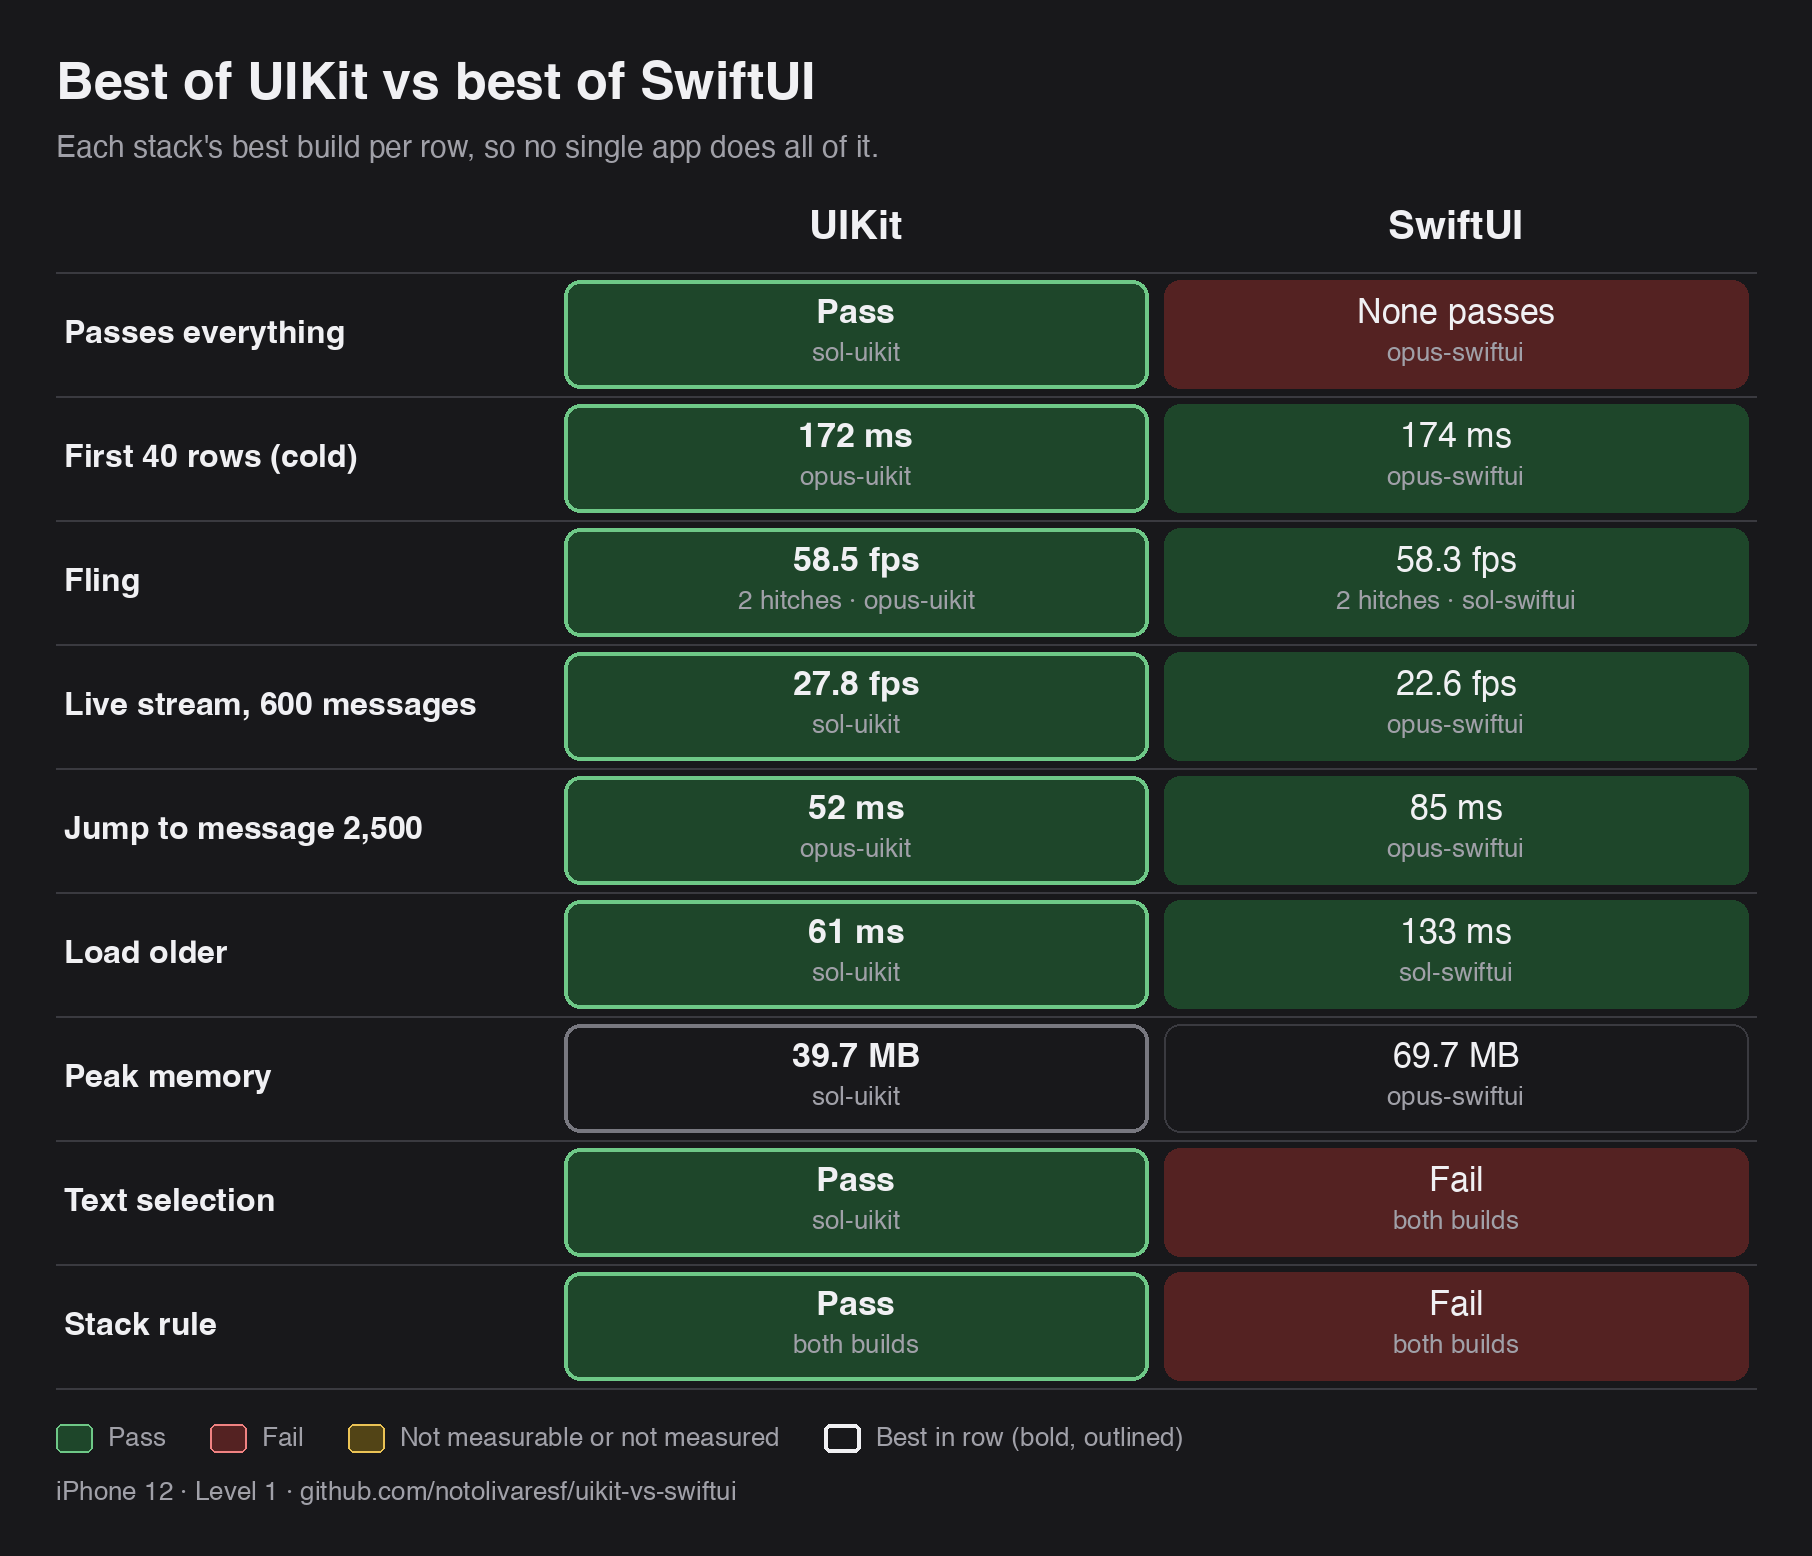
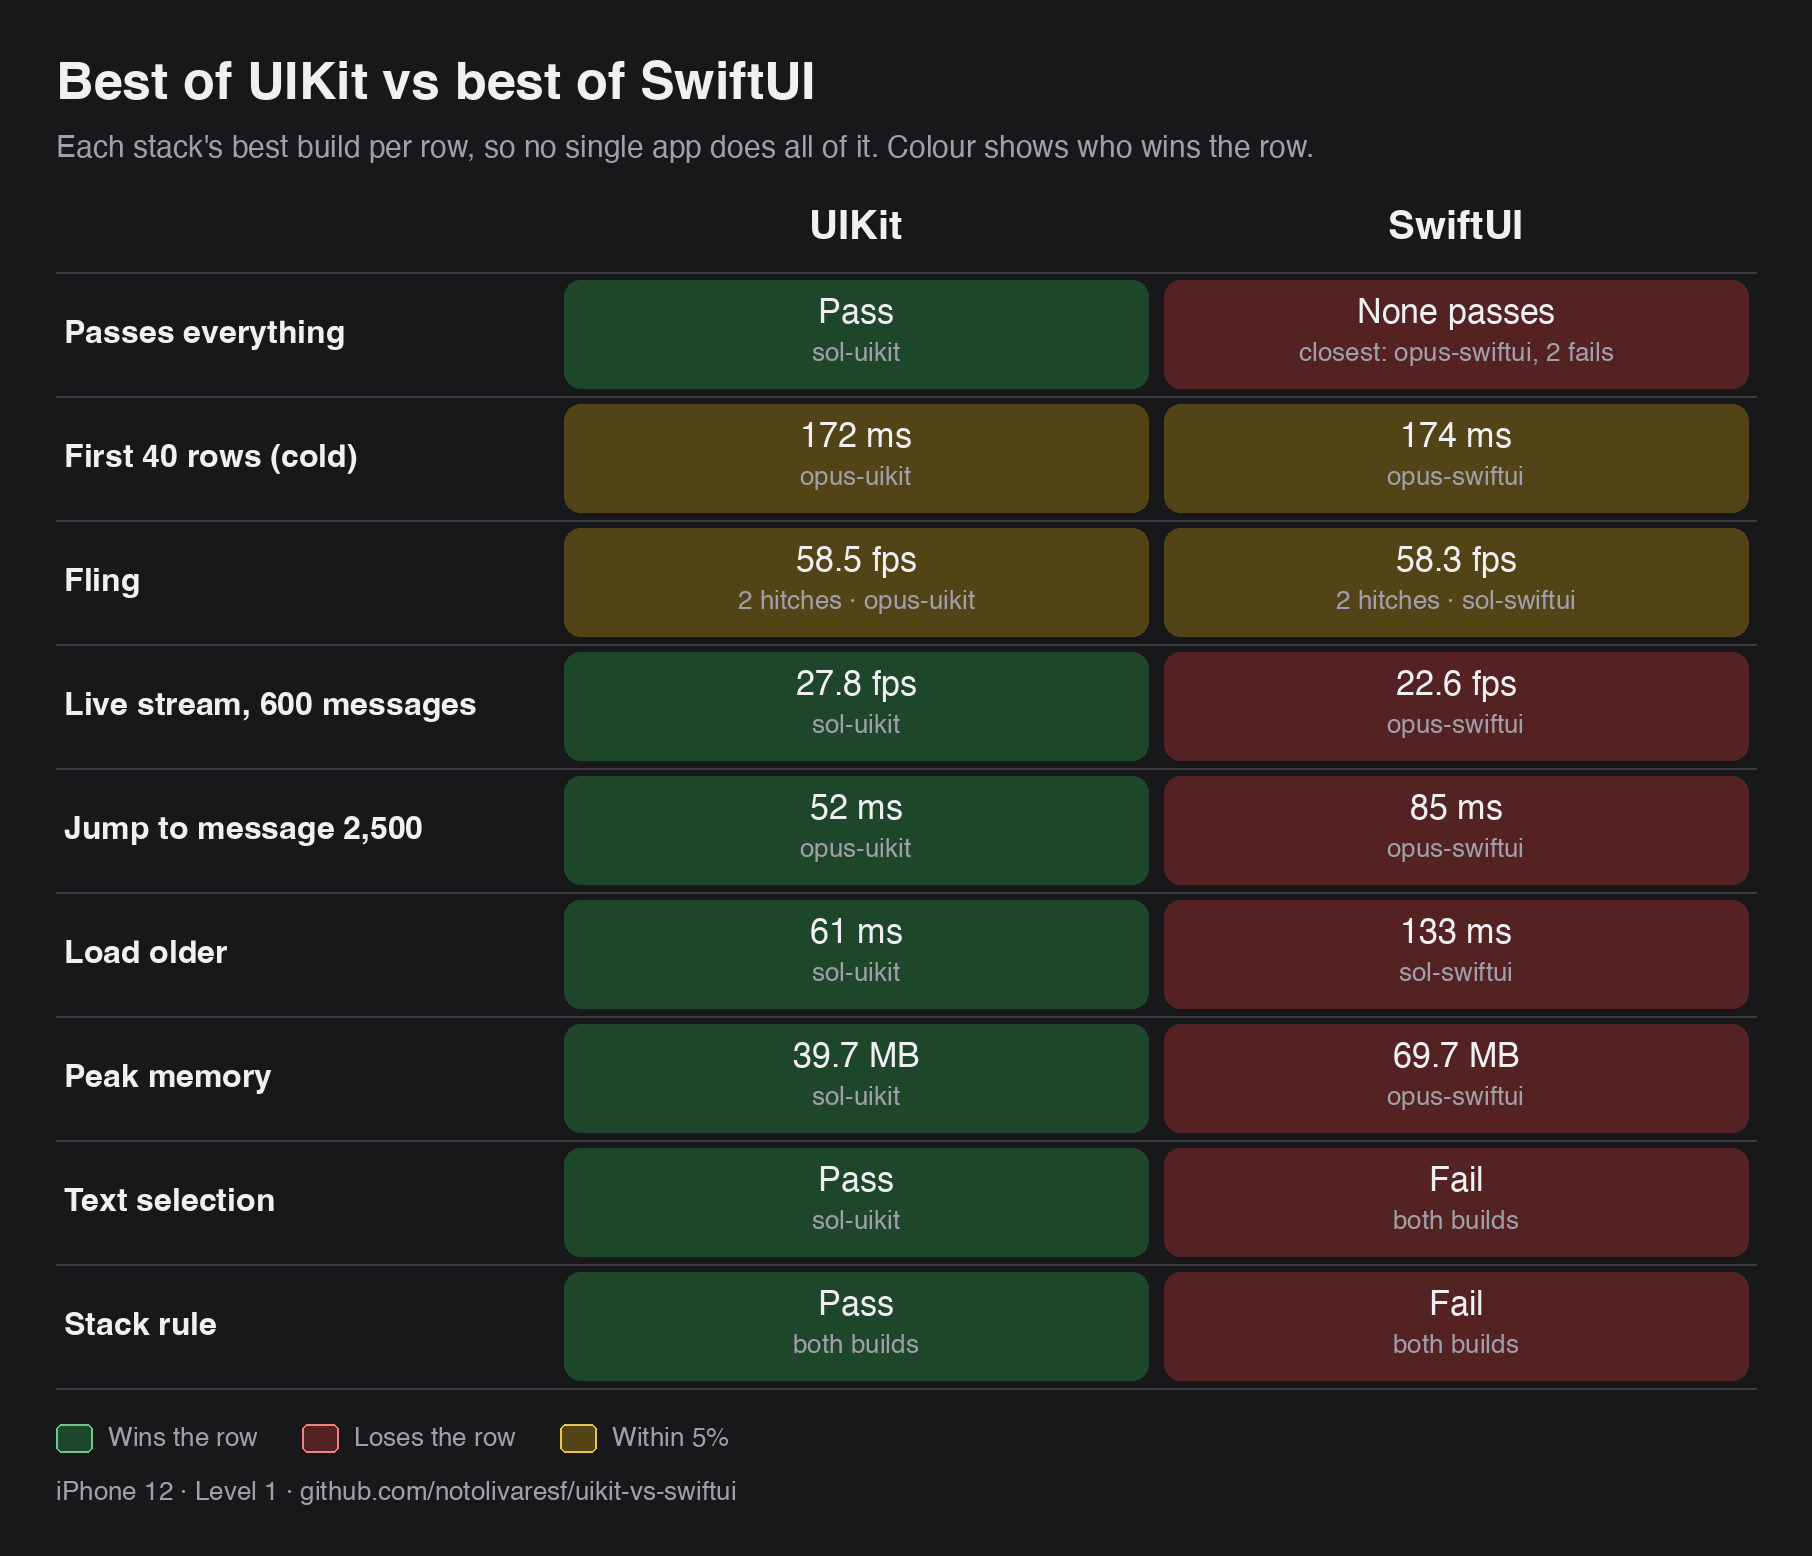
README: best-of table coloured by who wins the row, no outlines

diff --git a/Harness/tools/results_table.py b/Harness/tools/results_table.py
@@ -46,7 +46,8 @@ THEMES = {
 
 FULL = dict(title="UIKit vs SwiftUI", subtitle="Same Campfire chat room, built four times. Level 1 results.",
             builds=BUILDS, rows=ROWS, col_w=220, file="results",
-            groups=[("Opus 5.5", (0, 1)), ("GPT-6.1 Sol", (2, 3))])
+            groups=[("Opus 5.5", (0, 1)), ("GPT-6.1 Sol", (2, 3))],
+            legend=[("ok", "Pass"), ("bad", "Fail"), ("warn", "Not measurable or not measured")], best_legend=True)
 
 # --- Best of each stack, computed from ROWS (nothing retyped) ---
 import re
@@ -87,25 +88,38 @@ def best_rows():
             picks.append((i, sc))
         (iu, su), (iw, sw) = picks
         tie = su == sw
+        passfail = label in ("Passes everything", "Text selection", "Stack rule")
+        if su is None or sw is None:
+            near = False
+        else:
+            near = su == sw or (not passfail and abs(su - sw) / max(abs(su), abs(sw)) <= 0.05)
         out_cells = []
         for k, (i, sc) in enumerate(picks):
             state, main, sub, _ = cells[i]
             idxs = list(STACKS.values())[k]
             same = all(cells[j][1] == main and cells[j][0] == state for j in idxs)
-            if label == "Passes everything" and state != "ok":
-                main = "None passes"
             extra = sub if label == "Fling" else ""
             who = "both builds" if same and label in ("Text selection", "Stack rule") else NAMES[i]
-            out_cells.append((state, main, (extra + " \u00b7 " if extra else "") + who,
-                              not tie and sc is not None and (su is None or sw is None or sc == min(su, sw))
-                              if (su is not None and sw is not None) or sc is not None else False))
+            if label == "Passes everything" and state != "ok":
+                main, who = "None passes", "closest: %s, %s" % (NAMES[i], re.match(r"\d+ fails?", cells[i][1]).group())
+            other = picks[1 - k][1]
+            if near:
+                rank = "warn"
+            elif sc is None:
+                rank = "bad"
+            elif other is None or sc < other:
+                rank = "ok"
+            else:
+                rank = "bad"
+            out_cells.append((rank, main, (extra + " \u00b7 " if extra else "") + who, False))
         out.append((label, out_cells))
     return out
 
 
 BEST = dict(title="Best of UIKit vs best of SwiftUI",
-            subtitle="Each stack's best build per row, so no single app does all of it.",
-            builds=[("UIKit", ""), ("SwiftUI", "")], rows=best_rows(), col_w=300, file="results-best", groups=None)
+            subtitle="Each stack's best build per row, so no single app does all of it. Colour shows who wins the row.",
+            builds=[("UIKit", ""), ("SwiftUI", "")], rows=best_rows(), col_w=300, file="results-best", groups=None,
+            legend=[("ok", "Wins the row"), ("bad", "Loses the row"), ("warn", "Within 5%")])
 
 S = 2  # scale
 LABEL_W, COL_W, ROW_H, HEAD_H, GROUP_H = 250, 220, 62, 44, 36
@@ -191,13 +205,14 @@ def render(name, spec=None):
     # legend
     y += 18
     lx = x0
-    for state, txt in (("ok", "Pass"), ("bad", "Fail"), ("warn", "Not measurable or not measured")):
+    for state, txt in spec["legend"]:
         bgc, fg = th[state]
         d.rounded_rectangle([lx * S, y * S, (lx + 18) * S, (y + 14) * S], 3 * S, fill=bgc, outline=fg, width=S)
         d.text(((lx + 26) * S, (y + 7) * S), txt, font=font(13), fill=th["muted"], anchor="lm")
         lx += 26 + d.textlength(txt, font=font(13)) / S + 22
-    d.rounded_rectangle([lx * S, y * S, (lx + 18) * S, (y + 14) * S], 3 * S, outline=th["text"], width=2 * S)
-    d.text(((lx + 26) * S, (y + 7) * S), "Best in row (bold, outlined)", font=font(13), fill=th["muted"], anchor="lm")
+    if spec.get("best_legend"):
+        d.rounded_rectangle([lx * S, y * S, (lx + 18) * S, (y + 14) * S], 3 * S, outline=th["text"], width=2 * S)
+        d.text(((lx + 26) * S, (y + 7) * S), "Best in row (bold, outlined)", font=font(13), fill=th["muted"], anchor="lm")
     y += 28
     d.text((x0 * S, (y + 6) * S), "iPhone 12 · Level 1 · github.com/notolivaresf/uikit-vs-swiftui",
            font=font(13), fill=th["muted"], anchor="lm")

diff --git a/README.md b/README.md
@@ -36,26 +36,26 @@ Level 1, iPhone 12, one round per build. Green = pass, red = fail, yellow = not 
 
 ### Best of UIKit vs best of SwiftUI
 
-Each stack's best build per row (the build it came from is the grey line), so no single app does all of it. The winner of a row is bold and outlined; a tie marks neither.
+Each stack's best build per row (the build it came from is the grey line), so no single app does all of it. Green wins the row, red loses it, yellow means the two are within 5% of each other (a near tie). For pass/fail rows, a pass is green and a fail is red; if both stacks match, both are yellow. Lower is better for times and memory, higher for fps.
 
 <picture>
   <source media="(prefers-color-scheme: dark)" srcset="docs/images/results-best-dark.png">
-  <img src="docs/images/results-best.png" alt="Best UIKit build against best SwiftUI build per row. UIKit wins every row; SwiftUI never passes everything.">
+  <img src="docs/images/results-best.png" alt="Best UIKit build against best SwiftUI build per row. Colour shows the winner of each row; two rows are near ties.">
 </picture>
 
 <details><summary>Table as text</summary>
 
 | | UIKit (best build) | SwiftUI (best build) |
 |---|---|---|
-| **Passes everything** | Pass (sol-uikit) (winner) | None passes (closest: opus-swiftui, 2 fails) |
-| **First 40 rows (cold)** | 172 ms (opus-uikit) (winner) | 174 ms (opus-swiftui) |
-| **Fling** | 58.5 fps, 2 hitches (opus-uikit) (winner) | 58.3 fps, 2 hitches (sol-swiftui) |
-| **Live stream, 600 messages** | 27.8 fps (sol-uikit) (winner) | 22.6 fps (opus-swiftui) |
-| **Jump to message 2,500** | 52 ms (opus-uikit) (winner) | 85 ms (opus-swiftui) |
-| **Load older** | 61 ms (sol-uikit) (winner) | 133 ms (sol-swiftui) |
-| **Peak memory** | 39.7 MB (sol-uikit) (winner) | 69.7 MB (opus-swiftui) |
-| **Text selection** | Pass (sol-uikit) (winner) | Fail (both builds) |
-| **Stack rule** | Pass (both builds) (winner) | Fail (both builds) |
+| **Passes everything** | Wins: Pass (sol-uikit) | Loses: None passes (closest: opus-swiftui, 2 fails) |
+| **First 40 rows (cold)** | Within 5%: 172 ms (opus-uikit) | Within 5%: 174 ms (opus-swiftui) |
+| **Fling** | Within 5%: 58.5 fps, 2 hitches (opus-uikit) | Within 5%: 58.3 fps, 2 hitches (sol-swiftui) |
+| **Live stream, 600 messages** | Wins: 27.8 fps (sol-uikit) | Loses: 22.6 fps (opus-swiftui) |
+| **Jump to message 2,500** | Wins: 52 ms (opus-uikit) | Loses: 85 ms (opus-swiftui) |
+| **Load older** | Wins: 61 ms (sol-uikit) | Loses: 133 ms (sol-swiftui) |
+| **Peak memory** | Wins: 39.7 MB (sol-uikit) | Loses: 69.7 MB (opus-swiftui) |
+| **Text selection** | Wins: Pass (sol-uikit) | Loses: Fail (both builds) |
+| **Stack rule** | Wins: Pass (both builds) | Loses: Fail (both builds) |
 
 </details>
 
